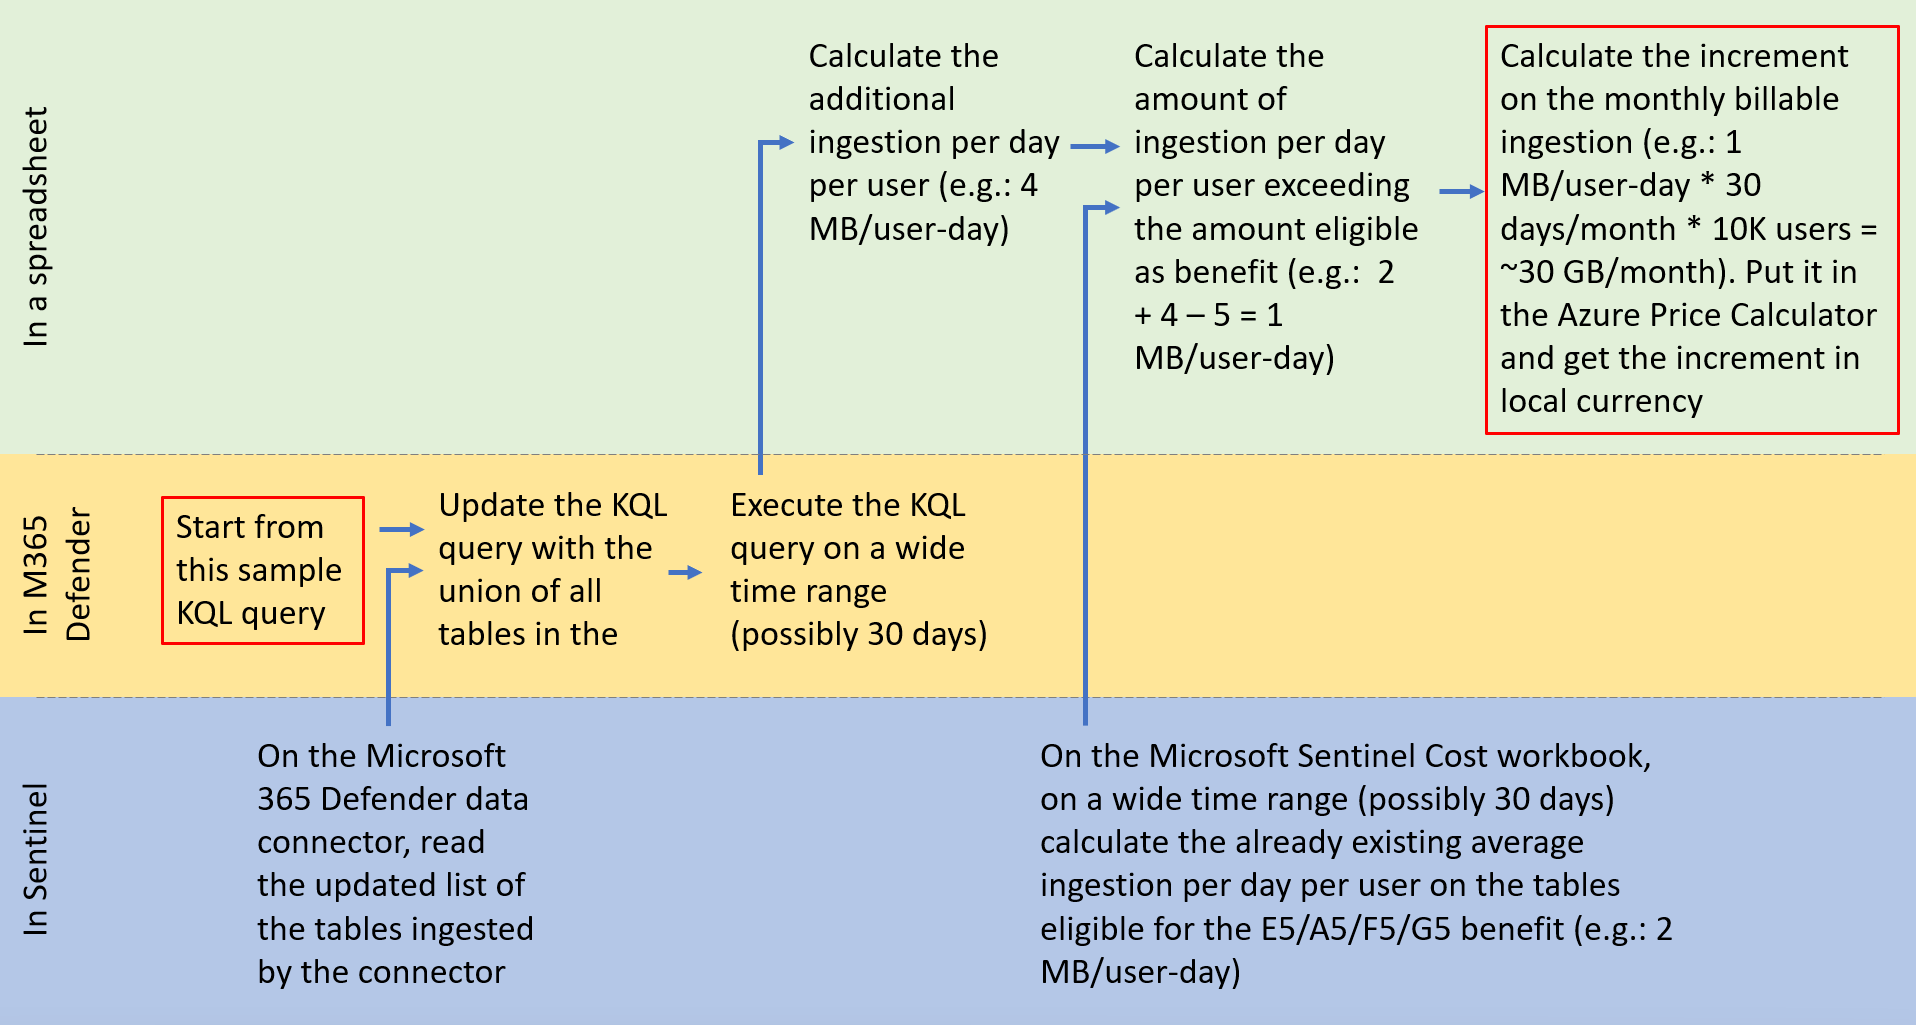
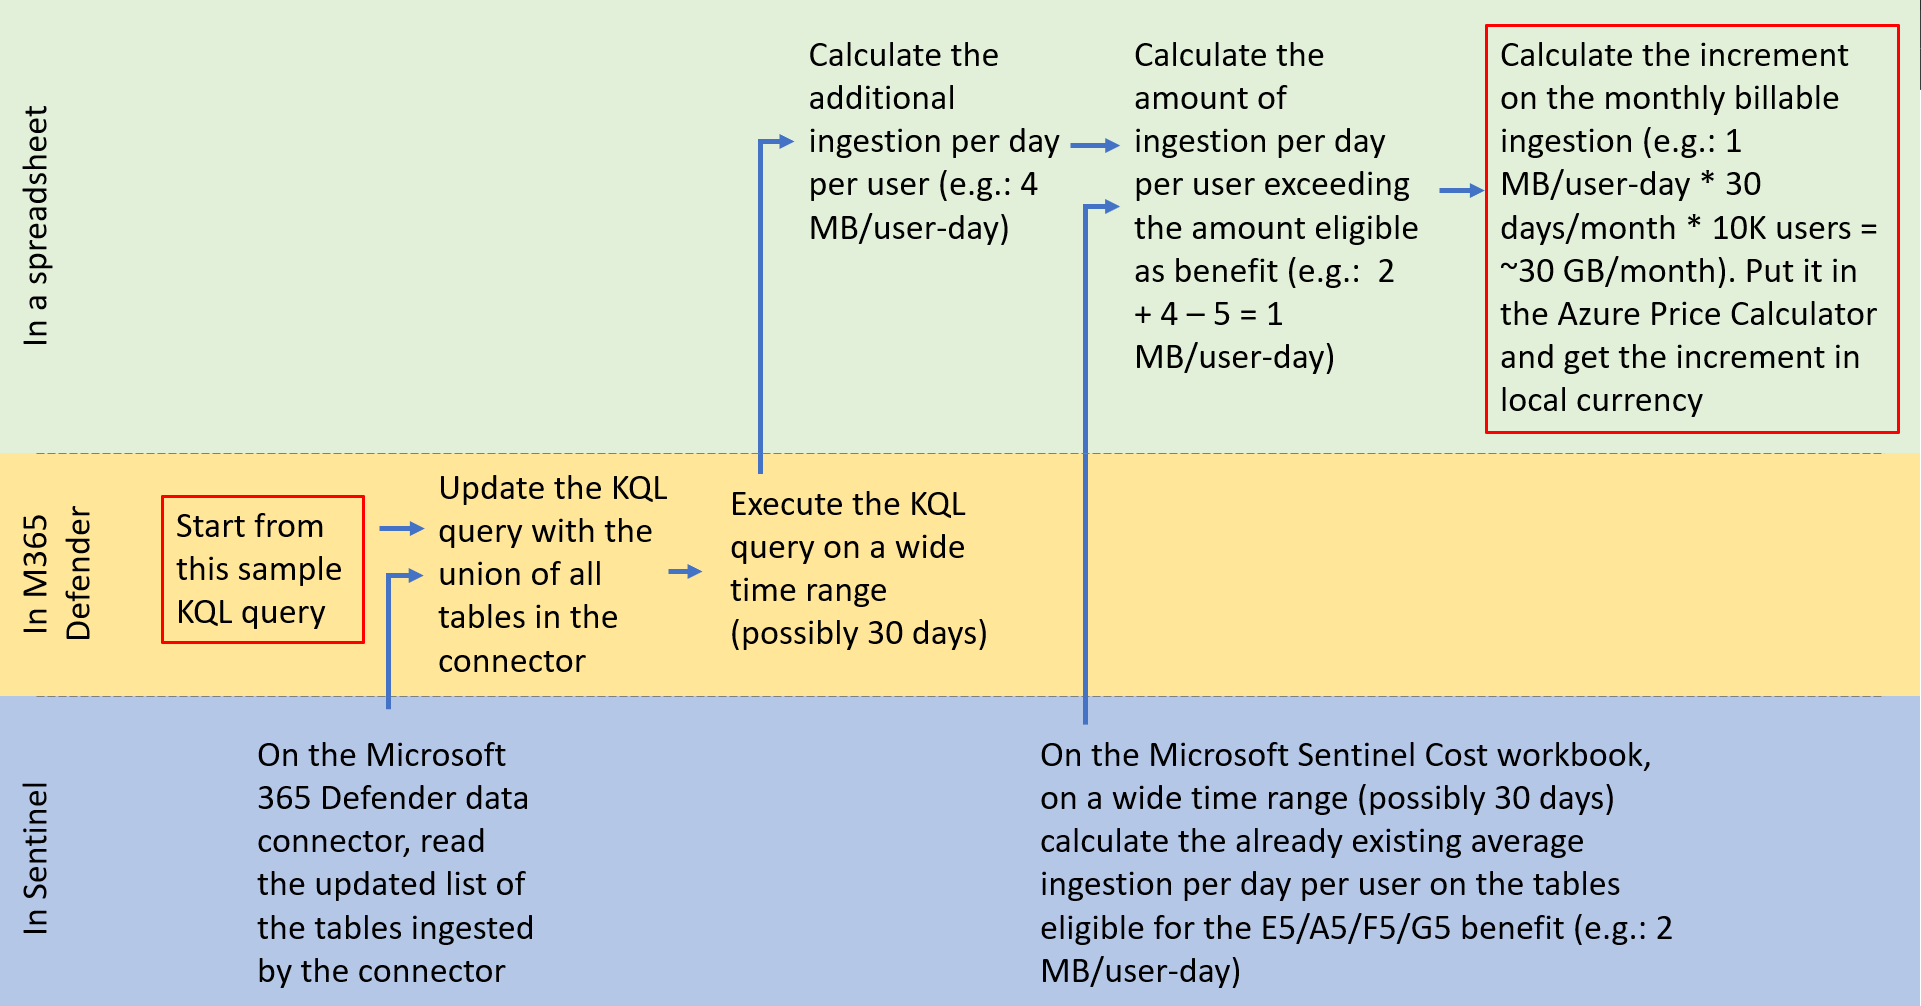
changes

diff --git a/_posts/2022-05-22-M365D raw data ingestion in Sentinel.md b/_posts/2022-05-22-M365D raw data ingestion in Sentinel.md
@@ -9,9 +9,9 @@ tags:
 
 Recently a few customers asked me to estimate the increase of costs that they would see by enabling "raw data" (Advanced Hunting data) ingestion from Microsoft 365 Defender into Microsoft Sentinel.
 
-This ingestion is very recommended as it strenghten the threat detection capability of Microsoft Sentinel: just as a first evidence, at the time of this writing, there are more than 40 Analytic Rule templates in Sentinel that leverage the raw data coming from Microsoft 365 Defender. This ingestion can be enabled by activating the "Microsoft 365 Defender" data connector in Sentinel. 
+This ingestion is highly recommended as it strenghtens the Microsoft Sentinel's threat detection capability for customers using the services in Microsoft 365 Defender: just as a first evidence, at the time of this writing, there are more than 40 Analytic Rule templates in Sentinel that leverage the raw data coming from Microsoft 365 Defender. Additionally, this ingestion enables access to this data for a much longer period than the 30 days available in Microsoft 365 Defender Advanced Hunting. This data ingestion can be configured by activating the "Microsoft 365 Defender" data connector in Sentinel.
 
-The increment of Sentinel costs due to this additional ingestion is strongly reduced, if not completely zeroed, by the [Microsoft Sentinel benefit for Microsoft 365 E5, A5, F5, and G5 customers](https://azure.microsoft.com/en-us/offers/sentinel-microsoft-365-offer/): at the time of this writing, customers <cite><a href="https://azure.microsoft.com/en-us/offers/sentinel-microsoft-365-offer/">get a data grant of up to 5 MB per user per day of Microsoft 365 data ingestion into Microsoft Sentinel</a></cite>. Please refer to the linked page to read the details of the licenses and table included in the benefit.
+The increment of Sentinel costs due to this additional ingestion is strongly reduced, if not completely zeroed, by the [Microsoft Sentinel benefit for Microsoft 365 E5, A5, F5, and G5 customers](https://azure.microsoft.com/en-us/offers/sentinel-microsoft-365-offer/): at the time of this writing, customers <cite><a href="https://azure.microsoft.com/en-us/offers/sentinel-microsoft-365-offer/">get a data grant of up to 5 MB per user per day of Microsoft 365 data ingestion into Microsoft Sentinel</a></cite>. Please refer to the linked page to read the details of the licenses and tables included in the benefit.
 
 To estimate the increment of Sentinel costs, I recommend doing the list of actions described in this flowchart:
 
